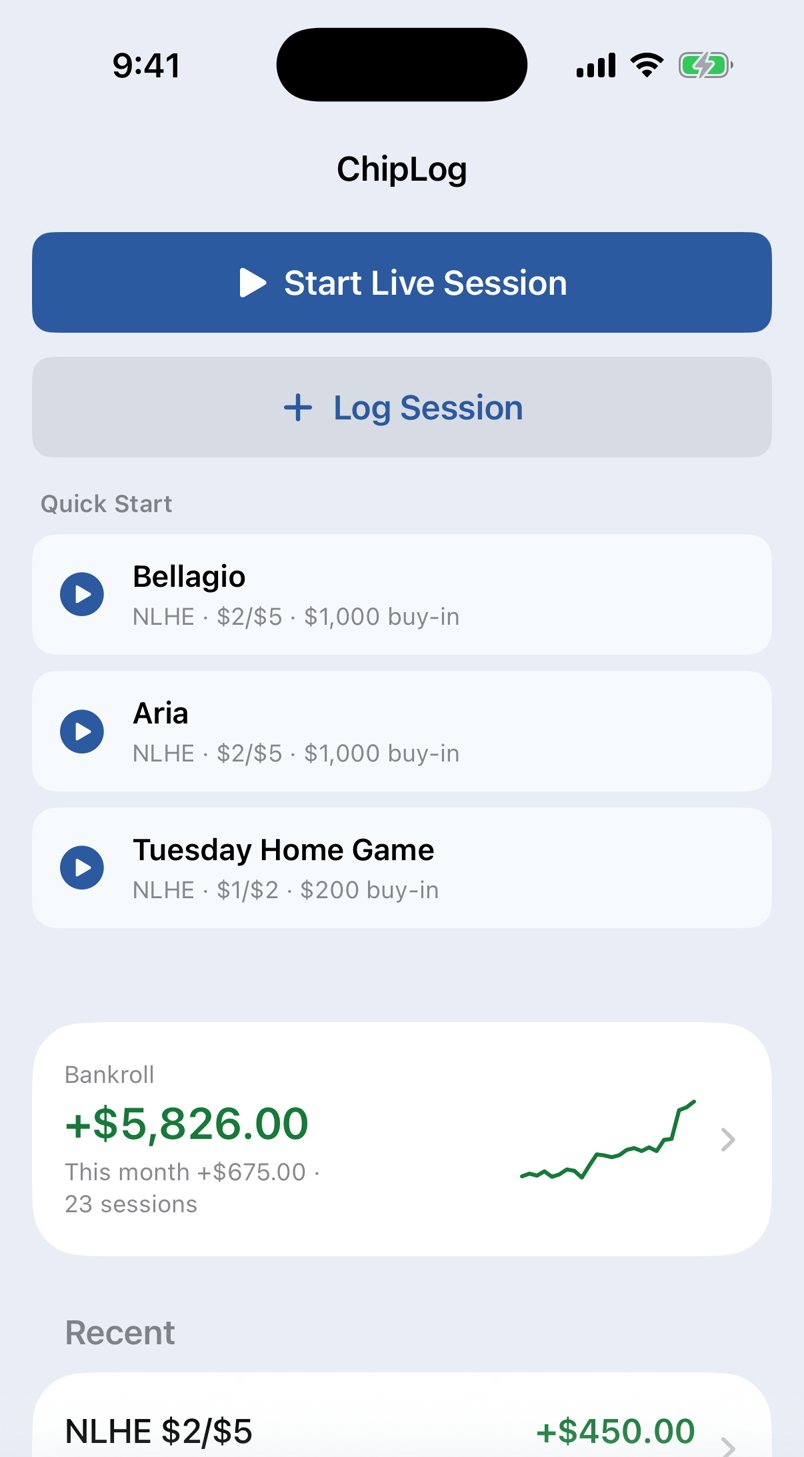
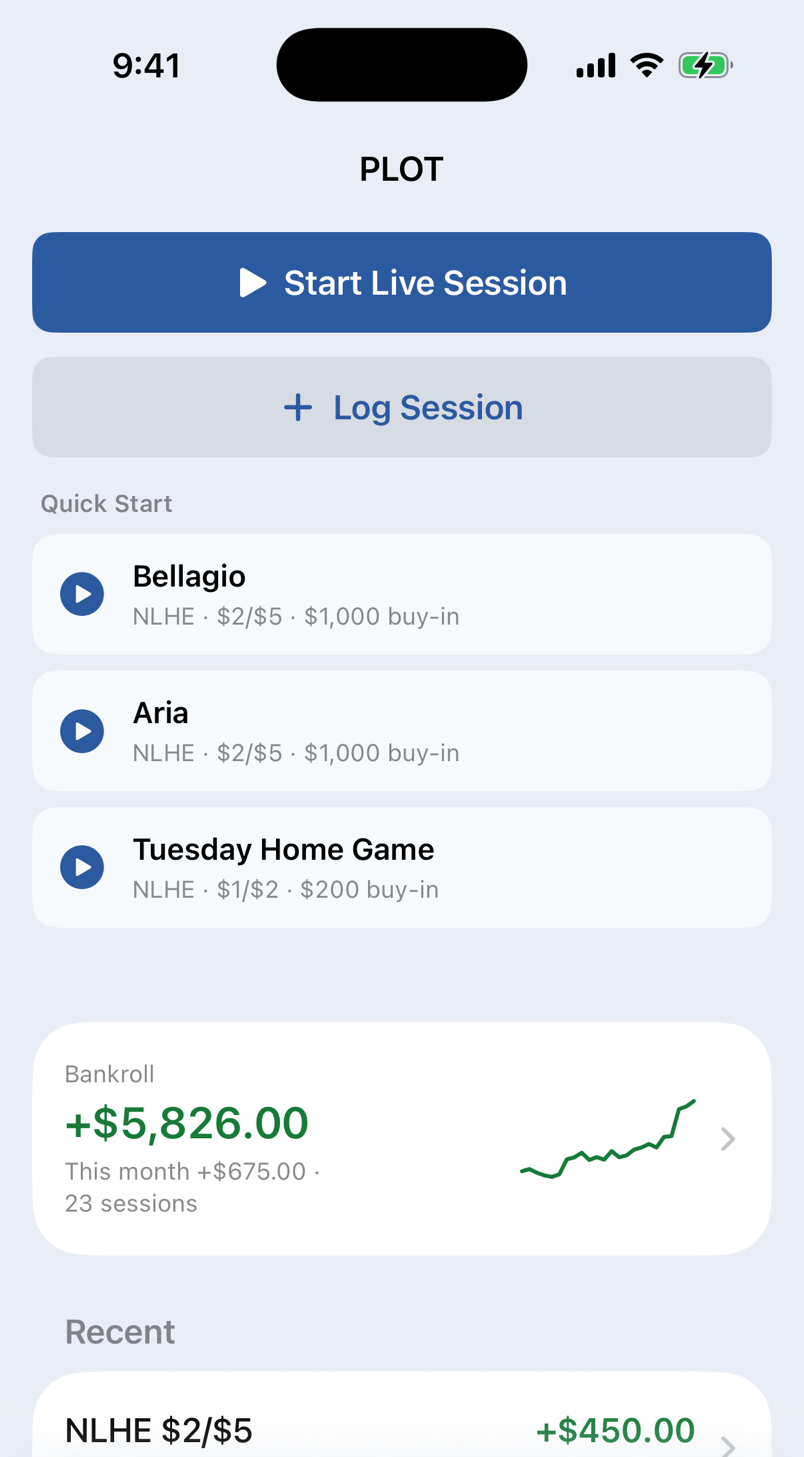
Rewrite the pages for the rename to PLOT (#22) (#5)
The site was written pre-rebrand and still called the app ChipLog on
every page, in copy and in one screenshot's pixels.

- 41 "ChipLog" strings across the three pages, including the ones that
  don't show in the body: <title>, og:title, meta descriptions and image
  alt text. The name is written PLOT, matching CFBundleDisplayName and
  the home screen's header — "Plot" is only the code-side prefix.
- Both mailto links now point at support@plotpokertracker.com. This was
  the one gated item: publishing the address before Cloudflare Email
  Routing existed would have bounced mail, and the App Store listing
  sends people here. Routing went live with the domain in plot#87.
- The privacy policy's "Last updated" moves with the contact address.
- screenshots/home.png re-captured: it renders the app name as its
  on-screen header, so no text edit could fix it.
- screenshots/stats.png re-captured too. Not for the name — it never
  carried one — but so the committed demo history reproduces the whole
  strip; its cumulative-profit curve was the one thing that didn't.

sessions.png and live-session.png were checked and left alone: generic
nav titles, and the sessions list still matches the new history row for
row.

The history behind all four is now committed in duduamar/plot as
scripts/demo-data.csv, with the recipe in docs/screenshots.md.

diff --git a/index.html b/index.html
@@ -3,9 +3,9 @@
 <head>
 <meta charset="UTF-8">
 <meta name="viewport" content="width=device-width, initial-scale=1">
-<title>ChipLog — Poker session &amp; bankroll tracker for iPhone</title>
-<meta name="description" content="ChipLog is an iPhone app for logging poker sessions and tracking your bankroll. Cash games and tournaments, a live session timer, and stats that build themselves. Your data stays in your own iCloud.">
-<meta property="og:title" content="ChipLog — Poker session &amp; bankroll tracker">
+<title>PLOT — Poker session &amp; bankroll tracker for iPhone</title>
+<meta name="description" content="PLOT is an iPhone app for logging poker sessions and tracking your bankroll. Cash games and tournaments, a live session timer, and stats that build themselves. Your data stays in your own iCloud.">
+<meta property="og:title" content="PLOT — Poker session &amp; bankroll tracker">
 <meta property="og:description" content="Log your poker sessions. Know where you actually stand. Your data stays in your own iCloud.">
 <meta property="og:type" content="website">
 <style>
@@ -62,18 +62,18 @@
 </head>
 <body>
 
-  <h1>ChipLog</h1>
+  <h1>PLOT</h1>
   <p class="tagline">Log your poker sessions. Know where you actually stand.</p>
 
   <p>
-    ChipLog is an iPhone app for cash-game and tournament players who want an
+    PLOT is an iPhone app for cash-game and tournament players who want an
     honest record of their results — what you played, how long you sat, and what
     it did to your bankroll.
   </p>
 
   <div class="shots">
     <figure>
-      <img src="screenshots/home.png" width="804" height="1457" alt="ChipLog home screen: Start Live Session and Log Session buttons, Quick Start shortcuts for recent games, and a bankroll card showing +$5,826.00 with a profit sparkline." loading="lazy">
+      <img src="screenshots/home.png" width="804" height="1457" alt="PLOT home screen: Start Live Session and Log Session buttons, Quick Start shortcuts for recent games, and a bankroll card showing +$5,826.00 with a profit sparkline." loading="lazy">
       <figcaption>Home — logging is one tap away.</figcaption>
     </figure>
     <figure>
@@ -81,11 +81,11 @@
       <figcaption>A live session, still running.</figcaption>
     </figure>
     <figure>
-      <img src="screenshots/stats.png" width="804" height="1457" alt="ChipLog stats screen: a cumulative profit chart and cards for profit, per hour, bb/hr, ROI, ITM and hours." loading="lazy">
+      <img src="screenshots/stats.png" width="804" height="1457" alt="PLOT stats screen: a cumulative profit chart and cards for profit, per hour, bb/hr, ROI, ITM and hours." loading="lazy">
       <figcaption>Stats over any period.</figcaption>
     </figure>
     <figure>
-      <img src="screenshots/sessions.png" width="804" height="1457" alt="ChipLog sessions list: each row shows the game and stakes, date, venue and duration, with the result in green or red." loading="lazy">
+      <img src="screenshots/sessions.png" width="804" height="1457" alt="PLOT sessions list: each row shows the game and stakes, date, venue and duration, with the result in green or red." loading="lazy">
       <figcaption>Every session you've logged.</figcaption>
     </figure>
   </div>
@@ -99,13 +99,13 @@
     <li><strong>Find where the money comes from</strong> — the same numbers broken down by stakes, game, venue and format.</li>
     <li><strong>Track your bankroll</strong> — sessions plus your own deposits, withdrawals and adjustments, so the number you see is the real one.</li>
     <li><strong>Keep it tidy</strong> — your own list of game types, venues and tags, notes on any session, and search and filters over the whole history.</li>
-    <li><strong>Take your data with you</strong> — export every session to CSV, or import one. ChipLog reads its own exports and PokerBankrollTracker's, and skips sessions you already have.</li>
-    <li><strong>Your data stays yours</strong> — everything lives on your device and syncs through <em>your own</em> iCloud account. There's no ChipLog account and no ChipLog server.</li>
+    <li><strong>Take your data with you</strong> — export every session to CSV, or import one. PLOT reads its own exports and PokerBankrollTracker's, and skips sessions you already have.</li>
+    <li><strong>Your data stays yours</strong> — everything lives on your device and syncs through <em>your own</em> iCloud account. There's no PLOT account and no PLOT server.</li>
   </ul>
 
   <h2>Get it</h2>
   <div class="get">
-    <!-- App Store link + badge go here once the app is live (tracked in chiplog#23). -->
+    <!-- App Store link + badge go here once the app is live (tracked in plot#23). -->
     <p><strong>Coming soon to the App Store.</strong></p>
     <p class="req">iPhone, iOS 26 or later. Free, with a small banner ad and a one-time purchase to remove it.</p>
   </div>

diff --git a/privacy.html b/privacy.html
@@ -3,8 +3,8 @@
 <head>
 <meta charset="UTF-8">
 <meta name="viewport" content="width=device-width, initial-scale=1">
-<title>ChipLog — Privacy Policy</title>
-<meta name="description" content="How ChipLog handles your data: everything you log stays on your device and in your own private iCloud storage. There is no ChipLog account and no ChipLog server.">
+<title>PLOT — Privacy Policy</title>
+<meta name="description" content="How PLOT handles your data: everything you log stays on your device and in your own private iCloud storage. There is no PLOT account and no PLOT server.">
 <style>
   :root { color-scheme: light dark; }
   body {
@@ -30,11 +30,11 @@
 </head>
 <body>
 
-  <h1>Privacy Policy for ChipLog</h1>
-  <p class="updated">Last updated: 7 August 2026</p>
+  <h1>Privacy Policy for PLOT</h1>
+  <p class="updated">Last updated: 8 August 2026</p>
 
   <p>
-    ChipLog ("the app") is a poker session and bankroll tracker for iPhone. This
+    PLOT ("the app") is a poker session and bankroll tracker for iPhone. This
     policy explains what the app stores, where it goes, and who else is
     involved.
   </p>
@@ -42,7 +42,7 @@
   <h2>The short version</h2>
   <p>
     Everything you log stays on your device and in your own private iCloud
-    storage. There is no ChipLog account, and the developer operates no server
+    storage. There is no PLOT account, and the developer operates no server
     and cannot see your sessions, your results or your bankroll. The only third
     parties involved are Apple, which provides iCloud and handles purchases, and
     Google AdMob, which serves the ads in the free version.
@@ -71,19 +71,19 @@
     what lets your sessions appear on your other devices. That storage belongs to
     you and is governed by
     <a href="https://www.apple.com/legal/privacy/">Apple's privacy policy</a> —
-    the developer of ChipLog has no access to it.
+    the developer of PLOT has no access to it.
   </p>
   <p>
-    ChipLog sends nothing to any server operated by the developer, because there
+    PLOT sends nothing to any server operated by the developer, because there
     isn't one.
   </p>
 
   <h2>Exporting and importing</h2>
   <p>
-    ChipLog can write your sessions to a CSV file and read one back. Both are
+    PLOT can write your sessions to a CSV file and read one back. Both are
     driven entirely by you: the export is handed to iOS's share sheet, and the
     import reads only the single file you pick. Where an exported file then goes
-    — Files, Mail, another app — is your choice, and ChipLog isn't involved once
+    — Files, Mail, another app — is your choice, and PLOT isn't involved once
     you've made it.
   </p>
 
@@ -92,7 +92,7 @@
     The free version of the app shows banner ads supplied by Google AdMob. To
     serve and measure those ads, AdMob may collect device-level information such
     as your device's advertising identifier, IP address, device type and
-    interactions with the ad. This is handled by Google, not by ChipLog — see
+    interactions with the ad. This is handled by Google, not by PLOT — see
     <a href="https://policies.google.com/technologies/partner-sites">how Google uses information from sites or apps that use its services</a>.
   </p>
   <p>
@@ -130,7 +130,7 @@
 
   <h2>Children</h2>
   <p>
-    ChipLog is a record-keeping tool for adults who play poker and is not
+    PLOT is a record-keeping tool for adults who play poker and is not
     directed at children. It does not knowingly collect information from
     children.
   </p>
@@ -139,7 +139,7 @@
   <p>
     Settings › Data › Reset erases your sessions, and optionally your lists and
     bankroll entries with them. Deleting the app removes what's stored on the
-    device. To remove the synced copy as well, delete ChipLog's data from your
+    device. To remove the synced copy as well, delete PLOT's data from your
     iCloud storage settings. You can export everything to CSV first if you want
     to keep a copy.
   </p>
@@ -153,7 +153,7 @@
   <h2>Contact</h2>
   <p>
     Questions about this policy:
-    <a href="mailto:support@chiplogapp.com">support@chiplogapp.com</a>
+    <a href="mailto:support@plotpokertracker.com">support@plotpokertracker.com</a>
   </p>
 
   <footer>

diff --git a/support.html b/support.html
@@ -3,8 +3,8 @@
 <head>
 <meta charset="UTF-8">
 <meta name="viewport" content="width=device-width, initial-scale=1">
-<title>ChipLog — Support</title>
-<meta name="description" content="Help with ChipLog, the poker session and bankroll tracker for iPhone — contact, FAQ, importing from another tracker, and removing the ads.">
+<title>PLOT — Support</title>
+<meta name="description" content="Help with PLOT, the poker session and bankroll tracker for iPhone — contact, FAQ, importing from another tracker, and removing the ads.">
 <style>
   :root { color-scheme: light dark; }
   body {
@@ -40,13 +40,13 @@
 </head>
 <body>
 
-  <h1>ChipLog Support</h1>
+  <h1>PLOT Support</h1>
 
   <div class="contact">
     <p>
       Something not working, or a feature you're missing? Email
-      <a href="mailto:support@chiplogapp.com">support@chiplogapp.com</a>. Please mention
-      your iPhone model, your iOS version, the ChipLog version (Settings ›
+      <a href="mailto:support@plotpokertracker.com">support@plotpokertracker.com</a>. Please mention
+      your iPhone model, your iOS version, the PLOT version (Settings ›
       About) and what you were doing when it went wrong.
     </p>
   </div>
@@ -57,13 +57,13 @@
   <p>
     On your iPhone, and — if you're signed into iCloud — in your own private
     iCloud storage, which is what syncs it between your devices. There's no
-    ChipLog account and no ChipLog server. See the
+    PLOT account and no PLOT server. See the
     <a href="privacy.html">privacy policy</a>.
   </p>
 
   <h3>I got a new phone. How do I move my sessions across?</h3>
   <p>
-    Sign into the same iCloud account and install ChipLog — your sessions sync
+    Sign into the same iCloud account and install PLOT — your sessions sync
     down on their own. If you don't use iCloud, export your sessions to CSV
     first (Settings › Data) and import that file on the new device.
   </p>
@@ -82,7 +82,7 @@
     file, and works out which one you picked on its own:
   </p>
   <ul>
-    <li>A CSV that ChipLog exported — from another device, or as a backup.</li>
+    <li>A CSV that PLOT exported — from another device, or as a backup.</li>
     <li>A <strong>PokerBankrollTracker</strong> export.</li>
   </ul>
   <p>
@@ -110,14 +110,14 @@
 
   <h3>Can I use more than one currency?</h3>
   <p>
-    ChipLog uses a single currency at a time, set in Settings. Sessions already
+    PLOT uses a single currency at a time, set in Settings. Sessions already
     logged keep the currency they were played in, so switching doesn't rewrite
     your history.
   </p>
 
   <h3>Is there an iPad or Mac version?</h3>
   <p>
-    Not today — ChipLog is an iPhone app, portrait only. It needs iOS 26 or
+    Not today — PLOT is an iPhone app, portrait only. It needs iOS 26 or
     later.
   </p>
 
@@ -126,7 +126,7 @@
     Settings › Data › <strong>Reset</strong> erases your sessions, and optionally
     your venues, game types and bankroll entries with them. Deleting the app
     removes everything stored on the device. To remove the synced copy as well,
-    delete ChipLog's data from your iCloud settings.
+    delete PLOT's data from your iCloud settings.
   </p>
 
   <footer>

diff --git a/README.md b/README.md
@@ -12,9 +12,13 @@ HTML, so nothing about the app itself is exposed.
 
 Where it's served
 -----------------
-<https://chiplogapp.com> — a custom apex domain on Cloudflare, not the old
+<https://plotpokertracker.com> — a custom apex domain on Cloudflare, not the old
 `duduamar.github.io/plot-pages/` path. GitHub redirects the old URLs, so
 nothing that already linked there breaks.
+
+The site moved here from `chiplogapp.com` with the rename off "ChipLog"
+(`duduamar/plot` #87). That zone is being torn down and its registration is set
+to lapse — nothing should point at it again.
 
 The domain isn't cosmetic. Google's `app-ads.txt` crawler takes the developer
 website from the store listing and fetches `/app-ads.txt` at **that domain's
@@ -44,16 +48,15 @@ a link in the app's Settings tab.
 
 Status
 ------
-Launch content is in place (`duduamar/plot` #22). The one thing still
-missing is the **App Store link**, which can't exist until the app is live —
-`index.html` says "Coming soon" and carries an HTML comment where the link and
-badge go. Tracked in `duduamar/plot` #23.
+Launch content is in place and carries the **PLOT** name throughout
+(`duduamar/plot` #22). The one thing still missing is the **App Store link**,
+which can't exist until the app is live — `index.html` says "Coming soon" and
+carries an HTML comment where the link and badge go. Tracked in
+`duduamar/plot` #23.
 
-The page copy still says "ChipLog" throughout, and `CNAME` still points at
-`chiplogapp.com`. Both are deliberate: the content rewrite is `duduamar/plot`
-#22, and the domain move is #87 — and `CNAME` in particular must not change
-until the new apex actually resolves, or Pages stops serving the old domain
-while the new one has no DNS and `app-ads.txt` goes unreachable at both.
+The name is written **PLOT** in copy, matching `CFBundleDisplayName` and the
+home screen's header. `Plot` is only ever the code-side prefix, so it doesn't
+belong on these pages.
 
 The privacy policy describes the app as it actually ships: local + private
 CloudKit storage, no developer server, no analytics SDK, AdMob banner with the
@@ -65,10 +68,10 @@ The privacy policy and support URLs served from here go into App Store Connect's
 "Privacy Policy URL" and "Support URL" fields, and are the same two URLs
 `PlotLinks` opens from the app's Settings tab:
 
-- <https://chiplogapp.com/privacy.html>
-- <https://chiplogapp.com/support.html>
+- <https://plotpokertracker.com/privacy.html>
+- <https://plotpokertracker.com/support.html>
 
-Contact on both pages is **support@chiplogapp.com**, forwarded to a personal
+Contact on both pages is **support@plotpokertracker.com**, forwarded to a personal
 inbox by Cloudflare Email Routing. Keep it that way — a personal address on a
 page built to be indexed is the thing the alias exists to avoid.
 
@@ -78,3 +81,12 @@ Screenshots
 the ad banner and scaled to 804px wide. The data in them is invented demo data
 imported from a CSV, not anyone's real results. Re-capture them whenever the UI
 moves on far enough that they'd mislead.
+
+**Don't invent a fresh history to re-shoot one screen.** The numbers here are
+published — the bankroll appears on both the Home and Stats shots, and the
+Sessions list has to agree with them — so the dataset is committed in the app
+repo, along with the crop step and the order to shoot the screens in:
+
+- `duduamar/plot` — `scripts/demo-data.csv` (built by `scripts/make-demo-data.mjs`,
+  which fails if the totals drift off what this site states)
+- `duduamar/plot` — `docs/screenshots.md`, the full recipe
